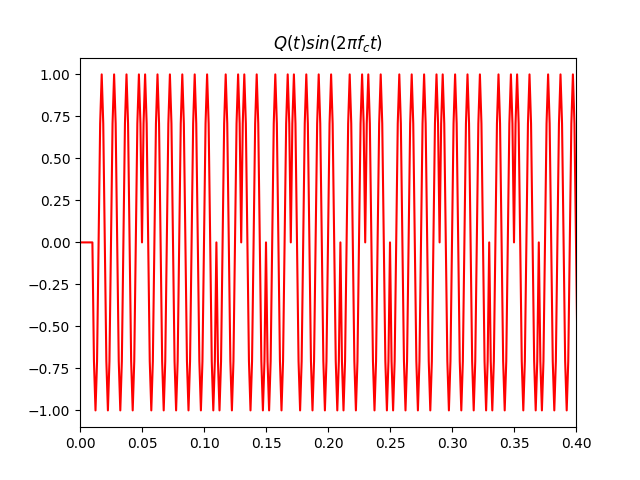
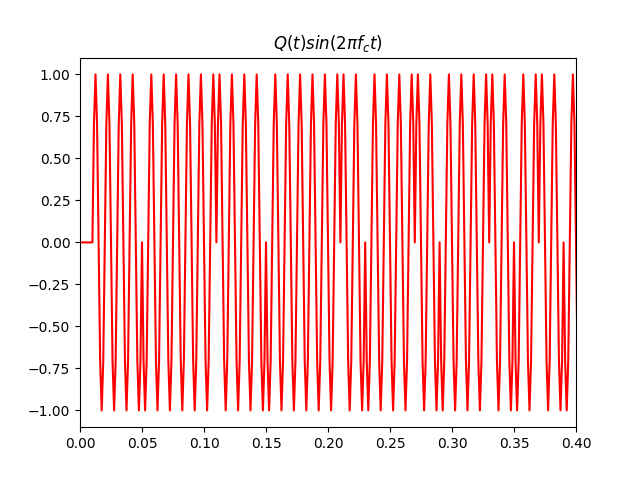
saving

diff --git a/ch2_demo_scripts.py b/ch2_demo_scripts.py
@@ -360,7 +360,7 @@ def piby4_dqpsk():
     plt.legend()
     plt.savefig('Ch2_images/piby4_dqpsk.png')
 
-piby4_dqpsk()
+oqpsk()
 
 
 
